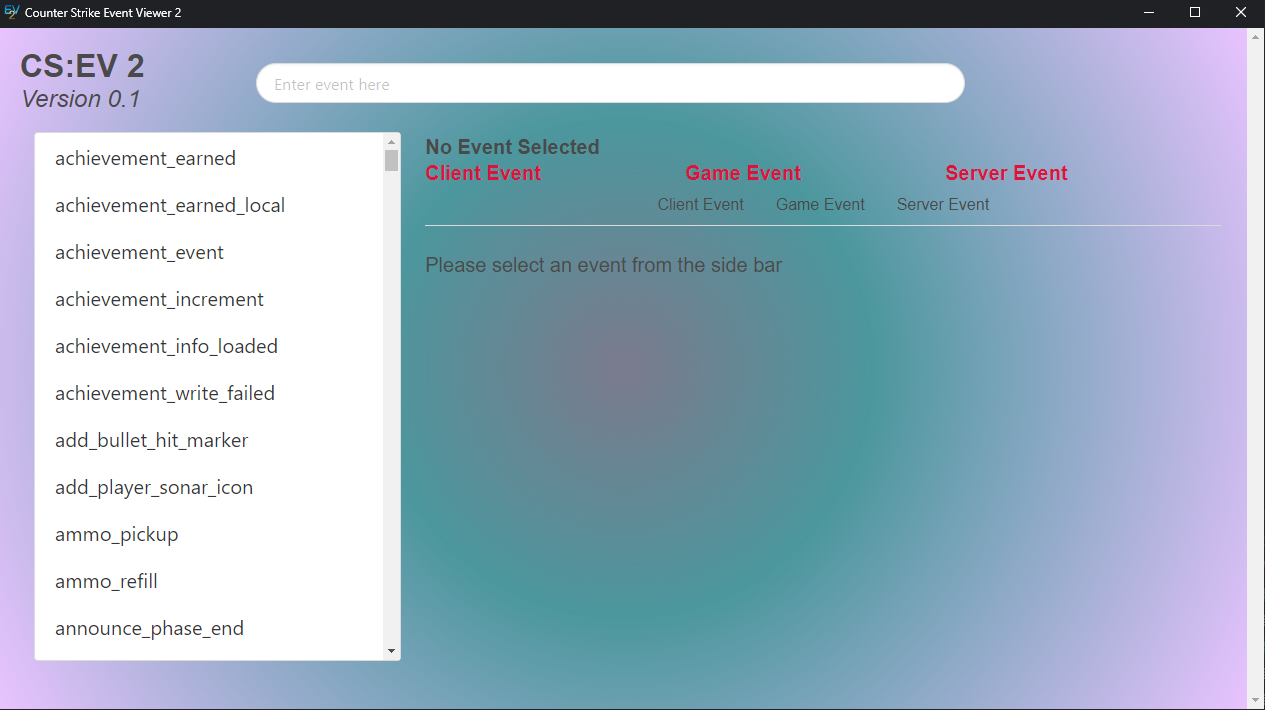
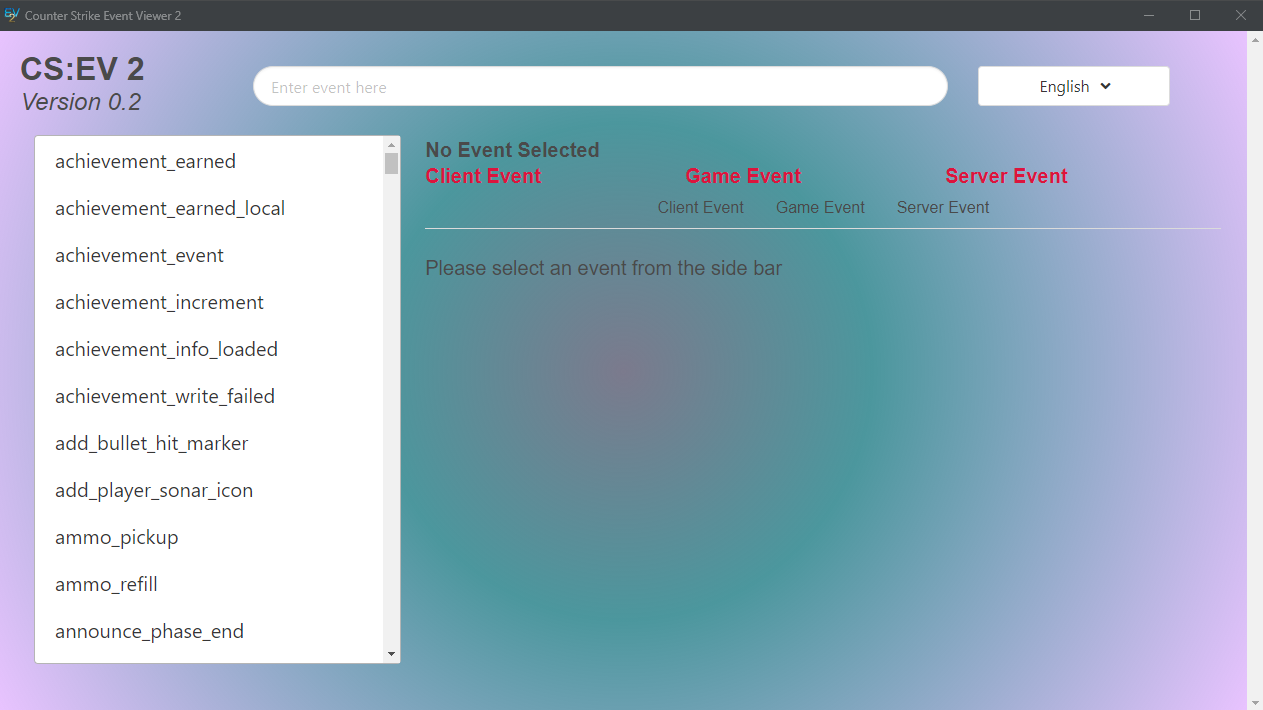
0.3 Build
Uploaded files to fix 0.2 issues

diff --git a/static/index.html b/static/index.html
@@ -4,6 +4,10 @@
     <link rel="shortcut icon" href="{{ url_for('static', filename='icon64x64.ico') }}">
 
     <meta name="viewport" content="width=device-width, initial-scale=1.0">
+
+    <!-- Prevent google translate for translating site -->
+    <meta name="google" content="notranslate">
+
     <link rel="stylesheet" href='/static/style.css' /> 
     <link rel="stylesheet" href='/static/bulma.css' />
     <link defer rel="stylesheet" href="/static/css/all.css" > <!--load all styles -->
@@ -23,9 +27,9 @@
     <link href="https://fonts.googleapis.com/css2?family=Noto+Sans&display=swap" rel="stylesheet">
 
     -->
-
 </head>
-<body>
+<body >
+
     <div>
         <table style="border-collapse: collapse; width: 100%;" border="0">
             <tbody>
@@ -34,7 +38,7 @@
                     <h1 class="ignore-css" style="margin: 0px;"><b>CS:EV 2</b></h1>
                     <h2 class="ignore-css" style="margin-top: 0px;"><i>{{lang['Version']}} {{version}}</i></h2>
                 </td>
-                <td style="width: 49.9526%;padding: 15px;"><input name="search" id="search" class="input is-rounded" onkeyup="filter()" type="text" placeholder="{{lang['SearchPlaceHolder']}}"></td>
+                <td style="width: 49.9526%;padding: 15px;"><input name="search" id="search" class="input is-rounded" onkeyup="filter()" type="text" placeholder="{{lang['SearchPlaceHolder']}}" autocomplete="off"></td>
                 <td style="width: 16.714%;padding: 15px;">
                     <div class="dropdown is-active">
                         <div class="dropdown-trigger">

diff --git a/static/logic.js b/static/logic.js
@@ -12,13 +12,37 @@ function CloseMessage()
 
 function OpenLatest()
 {
-    window.open("https://www.github.com/TheE7Player/CSEV2/releases/latest");
+    // https://api.github.com/repos/TheE7Player/CSEV2/releases -> assets
+    // https://stackoverflow.com/a/35970894
+    var getJSON = function(url, callback) {
+        var xhr = new XMLHttpRequest();
+        xhr.open('GET', url, true);
+        xhr.responseType = 'json';
+        xhr.onload = function() {
+          var status = xhr.status;
+          if (status === 200) {
+            callback(null, xhr.response);
+          } else {
+            callback(status, xhr.response);
+          }
+        };
+        xhr.send();
+    };
+
+    getJSON('https://api.github.com/repos/TheE7Player/CSEV2/releases',
+        function(err, data) {
+        if (err !== null) {
+            alert('Something went wrong: ' + err);
+        } else {
+            window.open(data[0].html_url);
+        }
+    });
+    
     CloseMessage();
 }
 
 function ToggleLanguage()
 {
-    // Get the available languages
     var shown = document.getElementById('dropdown-menu2').style.visibility;
 
     shown = (shown === "hidden") ? "visible" : "hidden";
@@ -45,7 +69,7 @@ function filter() {
 
     for (var i = 0; i < select.length; i++) {
         var txt = select.options[i].text;
-        if (!txt.startsWith(keyword)) {
+        if (!txt.includes(keyword)) {
             $(select.options[i]).attr('disabled', 'disabled').hide();
         } else {
             $(select.options[i]).removeAttr('disabled').show();

diff --git a/static/change.html b/static/change.html
@@ -4,6 +4,10 @@
     <link rel="shortcut icon" href="{{ url_for('static', filename='icon64x64.ico') }}">
 
     <meta name="viewport" content="width=device-width, initial-scale=1.0">
+    
+    <!-- Prevent google translate for translating site -->
+    <meta name="google" content="notranslate">
+
     <link rel="stylesheet" href='/static/style.css' /> 
     <link rel="stylesheet" href='/static/bulma.css' />
 
@@ -14,7 +18,7 @@
     <title>Counter Strike Event Viewer 2</title>
 </head>
 
-<body>
+<body onbeforeunload="RequestShutdown()">
 
     {% if lang == None %}
         <h2 class="title">{{normalLang['ChangeError']}}</h2>

diff --git a/base.html b/base.html
@@ -7,5 +7,5 @@
         setInterval(function(){ fetch(url, { mode: 'no-cors'});}, 5000)();
     
     });
-    
+
 </script>

diff --git a/languages.py b/languages.py
@@ -4,7 +4,7 @@
 
 def IfValidSupport(lang: str) -> bool:
 
-    supportedLanguages = ["ENG", "ESP", "POL", "RUS"]
+    supportedLanguages = ["ENG", "ESP", "POL", "RUS", "POR"]
 
     return True if lang in supportedLanguages else False
 
@@ -14,7 +14,8 @@ def GetSupportedList():
             'English': 'ENG', 
             'Español': 'ESP',
             'Русский': 'RUS',
-            'Polski': 'POL'
+            'Polski': 'POL',
+            'Português': 'POR'
            }
 
 def GetLanguage(lang: str):
@@ -60,7 +61,14 @@ def GetLanguage(lang: str):
         "GameHint": "Does the game or game type cause the event to trigger?",
         "ServerHint": "Does the server invoke the event to trigger?",
 
-        "LanguageDemo": "Are you able to read this text perfectly fine? If so press Yes or press No to revert"
+        "LanguageDemo": "Are you able to read this text perfectly fine? If so press Yes or press No to revert",
+
+        "NoArgumentsTitle": "This event is just an empty invoker",
+        "NoArgumentsText": "That means that this event doesn't pass or carry any information - It just invokes the event argumentless.",
+        "ArgumentID": "Param Order",
+        "ArgumentName": "Param Name",
+        "ArgumentType": "Param Type",
+        "ArgumentComment": "Param Comment"
     }
 
     # Spanish Translation ~ Thank you Vulc4n#9999 (302235332391206914)
@@ -82,9 +90,9 @@ def GetLanguage(lang: str):
         'SearchPlaceHolder': "Busca un evento aquí",
 
         'Game':"Evento del Juego", "Cliente":"Evento del Cliente", "Servidor":"Evento del Servidor",
-        'NotClient': "Lo sentimos, este evento no es implementado desde el Jugador",
-        'NotGame': "Lo sentimos, este evento no es implementado desde el Modo de Juego",
-        'NotServer':"Lo sentimos, este evento no es implementado desde el Servidor",
+        'NotClient': "Lo sentimos, este evento no es invocado desde el Jugador",
+        'NotGame': "Lo sentimos, este evento no es invocado desde el Modo de Juego",
+        'NotServer':"Lo sentimos, este evento no es invocado desde el Servidor",
 
         "InformationHeader": "Información:",
 
@@ -94,7 +102,13 @@ def GetLanguage(lang: str):
         "GameHint": "¿El juego o modo de juego provocan este evento?",
         "ServerHint": "¿El servidor provoca este evento?",
 
-        "LanguageDemo": "¿Puedes leer este texto sin problemas? Si puedes, presiona SI, en caso no puedas, presiona NO para cancelar"
+        "LanguageDemo": "¿Puedes leer este texto sin problemas? Si puedes, presiona SI, en caso no puedas, presiona NO para cancelar",
+        "NoArgumentsTitle": "Este evento es solo un invocador vacío",
+        "NoArgumentsText": "Esto significa que este evento no puede ni almacenar ni pasar ninguna información - Tan solo invoca un evento sin argumentos.",
+        "ArgumentID": "Orden del Parámetro",
+        "ArgumentName": "Nombre del Parámetro",
+        "ArgumentType": "Tipodel Parámetro",
+        "ArgumentComment": "Comentario acerca del Parámetro"
     }
 
     # Polish Translation  ~ Thank you Helosx#1288 (378965373682188288)
@@ -128,7 +142,13 @@ def GetLanguage(lang: str):
         "GameHint": "Czy gra wywołuje to zdarzenie?",
         "ServerHint": "Czy serwer wywołuje to zdarzenie?",
 
-        "LanguageDemo": "Jesteś w stanie przeczytać ten tekst? Naciśnij Tak aby potwierdzić lub Nie aby cofnąć"
+        "LanguageDemo": "Jesteś w stanie przeczytać ten tekst? Naciśnij Tak aby potwierdzić lub Nie aby cofnąć",
+        "NoArgumentsTitle": "To zdarzenie jest pustym wywoływaczem",
+        "NoArgumentsText": "Oznacza to, że zdarzenie nie przekazuje ani nie przechowuje żadnych informacji - poprostu wywołuje zdarzenie bez żadnych argumentów",
+        "ArgumentID": "Kolejność",
+        "ArgumentName": "Nazwa Parametru",
+        "ArgumentType": "Typ Parametru",
+        "ArgumentComment": "Komentarz"
     }
 
     # Russian Translation ~ Thank you DMax#3317   (443364273243160577)
@@ -162,8 +182,57 @@ def GetLanguage(lang: str):
         "GameHint": "Вызывает ли игра это событие?",
         "ServerHint": "Вызывает ли сервер это событие?",
 
-        "LanguageDemo": "Можете ли Вы прочитать этот текст? Если можете, нажмите Да. В противном случае нажмите нет"
+        "LanguageDemo": "Можете ли Вы прочитать этот текст? Если можете, нажмите Да. В противном случае нажмите нет",
+        "NoArgumentsTitle": "Это пустое событие",
+        "NoArgumentsText": "Это значит, что событие не содержит никакой информации. Оно вызывается без аргументов.",
+        "ArgumentID": "Номер аргумента",
+        "ArgumentName": "Имя аргумента",
+        "ArgumentType": "Тип аргумента",
+        "ArgumentComment": "Описание аргумента"
     }
+
+    # Portuguese Translation ~ Thank you Gela-1511#9299 (244159872004915201)
+    LANG['POR'] = {
+
+        'Title': "Português",
+        "Shorthand": "POR",
+        'ChangeError': "Ocorreu um erro ao trocar de idioma",
+        'ChangeErrorSubtext': "Retroceder",
+        'Version': 'Versão',
+        'NoEvent': 'Nenhum evento selecionado',
+        'EventSubText':"Por favor seleciona um evento da lista",
+
+        'UpdateMessageA': "Estás a usar uma",
+        'UpdateMessageB': "versão anterior",
+        'UpdateMessageC': "deste programa - existe uma nova",
+        'UpdateMessageD': "aqui",
+
+        'SearchPlaceHolder': "Insira o evento aqui",
+
+        'Game':"Evento de Jogo", "Client":"Evento de Cliente", "Server":"Evento de Servidor",
+        'NotClient': "O evento em questão não é chamado pelo Jogador",
+        'NotGame': "O evento em questão não é chamado pelo Modo de Jogo",
+        'NotServer':"O evento em questão não é chamado pelo Servidor",
+
+        "InformationHeader": "Informação:",
+
+        "HintYes": "Sim", "HintNo": "Não",
+
+        "PlayerHint": "O jogador invoca o evento?",
+        "GameHint": "O jogo ou o modo de jogo invoca o evento?",
+        "ServerHint": "O servidor invoca o evento?",
+
+        "LanguageDemo": "És capaz de ler este texto perfeitamente? Se sim, pressiona Sim, senão pressiona Não para reverter",
+
+        "NoArgumentsTitle": "Este evento é um invocador vazio",
+        "NoArgumentsText": "Este evento não passa nem possui qualquer tipo de informação - Só é possível ser invocado.",
+        "ArgumentID": "Ordem do Parâmetro",
+        "ArgumentName": "Nome do Parâmetro",
+        "ArgumentType": "Tipo de Parâmetro",
+        "ArgumentComment": "Comentário do Parâmetro"
+    }
+
+
     result = None
 
     try:

diff --git a/main.py b/main.py
@@ -18,9 +18,11 @@ app = Flask(__name__, template_folder='static')
 VERSION = '0.2'
 REG_PATH = r"SOFTWARE\CSEV2\DATA"
 DEFAULT_LANGUAGE = "ENG"
+APPLICATION_LOADED = False
 
 # Feed it the flask app instance 
 ui = FlaskUI(app)
+
 ui.height = 720
 ui.width = 1280
 ui.app_mode = True
@@ -30,6 +32,8 @@ eventNames = []
 
 language = []
 selectLanguage = GetSupportedList()
+
+
 
 # https://stackoverflow.com/a/23624136
 def set_reg(name, value):
@@ -58,13 +62,13 @@ def CreateTable(data):
   paramNum = 1
 
   if len(data) == 0:
-    table.append("<h1 class=\"title\">This event is just an empty invoker</h1>")
-    table.append("<br><p>That means that this event doesn't pass or carry any information - It just invokes the event argumentless.</p>")
+    table.append(f"<h1 class=\"title\">{language['NoArgumentsTitle']}</h1>")
+    table.append(f"<br><p>{language['NoArgumentsText']}</p>")
   else: 
 
     table.append('<table class="table" style="width=inherit;">')
 
-    table.append('<thead><tr><td>Param Order</td><td>Param Name</td><td>Param Type</td><td>Param Comment</td></tr></thead>')
+    table.append(f'<thead><tr><td>{language["ArgumentID"]}</td><td>{language["ArgumentName"]}</td><td>{language["ArgumentType"]}</td><td>{language["ArgumentComment"]}</td></tr></thead>')
 
     table.append('<tbody>')
 
@@ -119,6 +123,11 @@ def event(item_name):
 
 @app.route("/")
 def index():
+  global APPLICATION_LOADED
+
+  if not APPLICATION_LOADED:
+    APPLICATION_LOADED = True
+
   return render_template('index.html', 
   version=VERSION, lang=language, availableLanguages=selectLanguage,
   eventnames=eventNames, 
@@ -255,7 +264,7 @@ def main():
       nextCheck = f"{nextCheck.day}/{nextCheck.hour}"
       if not set_reg("timeNextCheck", nextCheck): print(f"Failed to set REVKEY 'timeNextCheck' to {nextCheck}")
 
-    except (requests.ConnectionError, requests.Timeout) as exception:
+    except (requests.ConnectionError, requests.Timeout):
       print("No internet connection.")
   else:
     print("Update check has already been made - ignoring the update logic")
@@ -269,9 +278,63 @@ def main():
       eventNames.sort()
 
   language = GetLanguage(DEFAULT_LANGUAGE)
-
+  
   ui.run()
+  
+import psutil # Used to cycle through the processes
+import threading # Used to create threads (IMPORTANT)
+import time # Used along side of events (Allows the thread sleep)
+import os
+import signal # Used to exit the script completly
+
+def SearchThread():
+  global APPLICATION_LOADED
+
+  foundChrome = False
+  chromeID = 0
+
+  windowOpen = True
+
+  target = "chrome"
+  argu = "--incognito"
+
+  while not APPLICATION_LOADED:
+    time.sleep(2)
+
+  print("Waiting thread is now searching...")
+  while True:
+    if not foundChrome:
+      for process in psutil.process_iter():
+          if target in process.name():         
+            if argu in process.cmdline():
+              print("Found the window to test for:", process.pid)
+              foundChrome = True
+              chromeID = process.pid
+    else:
+      windowOpen = False
+      for process in psutil.process_iter():
+          if target in process.name():         
+            if argu in process.cmdline():
+              windowOpen = True
+
+      if not windowOpen:
+        print("Cannot find window - assuming its closed. Shuting down server.")
+        break
+    time.sleep(2)
+
 
 # Creating an Entry Point here
 if __name__ == '__main__':
-    main()
+
+    uiThread = threading.Thread(target=main)
+    uiThread.daemon = True  
+    uiThread.start()
+
+    searchThread = threading.Thread(target=SearchThread)
+    searchThread.daemon = True  
+    searchThread.start()
+
+    searchThread.join()
+
+print("EXITING")
+os.kill(os.getpid(), signal.SIGTERM)

diff --git a/flaskwebgui.py b/flaskwebgui.py
@@ -249,4 +249,4 @@ class FlaskUI:
             import psutil
             psutil.Process(os.getpid()).kill()
         except:
-            os.kill(os.getpid(), signal.SIGSTOP) 
+            os.kill(os.getpid(), signal.SIGTERM) 
